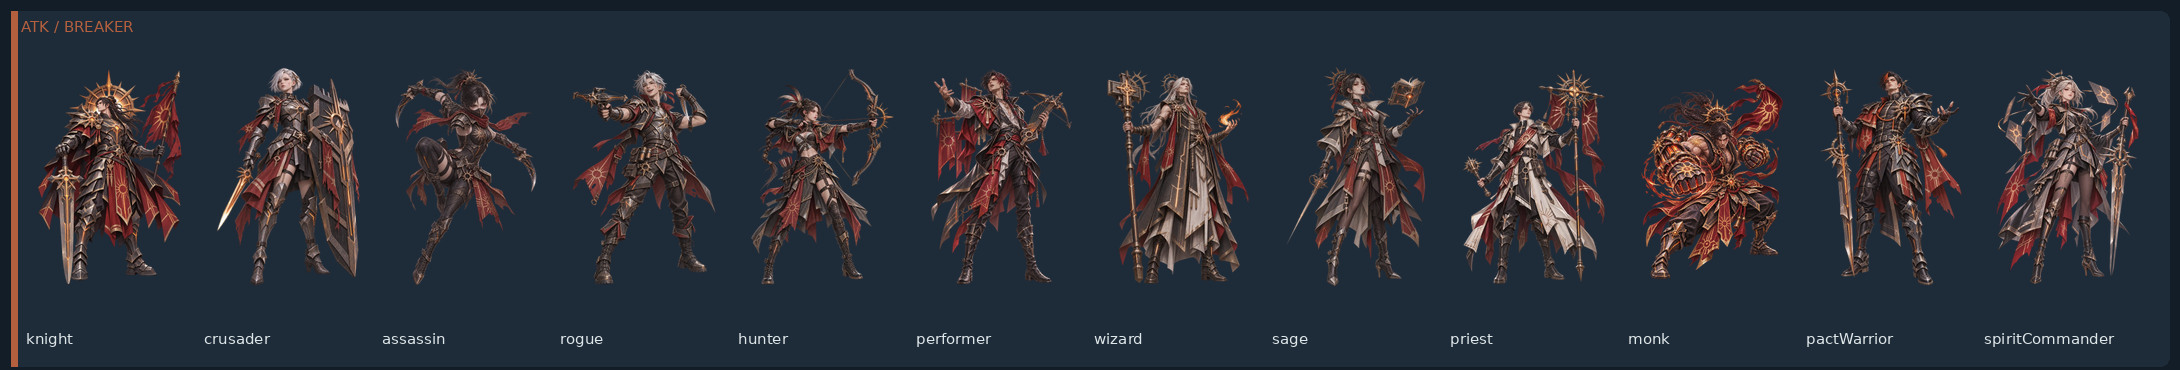
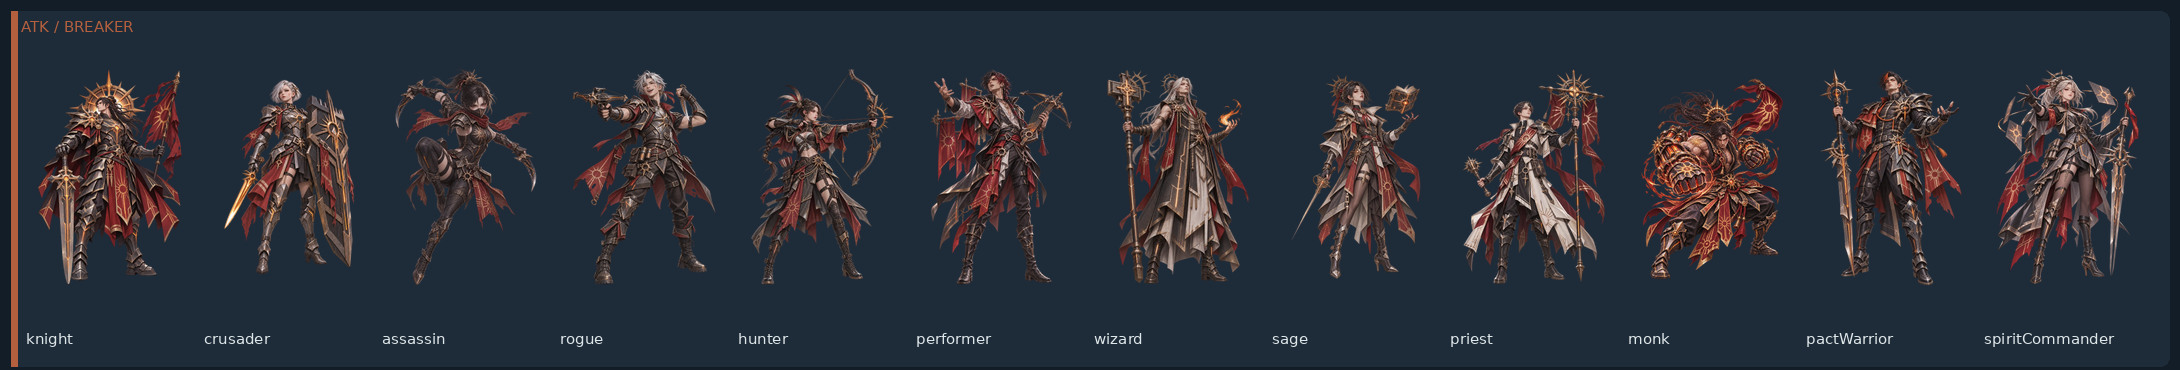
docs: regenerate all mantle V2 previews after strict margin pass

Changed region(s): [[0.0936, 0.1784, 0.1872, 0.773], [0.5927, 0.1784, 0.655, 0.773]]

diff --git a/docs/HANDOFF_EXTREME_MANTLES_V2_2026-11-08.md b/docs/HANDOFF_EXTREME_MANTLES_V2_2026-11-08.md
@@ -673,3 +673,9 @@
 - 保留黑色不對稱側削髮與長辮男性修羅、翠綠雙拳甲、裸露雙臂、綠白胸甲、白色寬鬆武鬥褲、翠色軍旗及發光菱形符紋；稍微收整全圖，拳勢與裝備完整，不增加手持武器。
 - `clear-monk.webp` 1024×1536 RGBA 透明 WebP；alpha≥128 bbox=(201,138,839,1395)，四邊留白201／138／185／141px，全部達6%，主體高度81.8%。
 - 最後九張 D1–D9 全部各自驗證；`python scripts/art/audit-extreme-mantle-alpha.py --strict` 完整稽核 **48張、0 REVIEW**，四側全部≥6%；`node --test tests/extreme-*.test.mjs` **36／36通過**。下一步重新產生五張總覽並確認遠端 Git blob 完全一致。
+
+## 最終總覽與規格驗收（2026-11-09）
+
+- 已由目前全部48張透明 WebP 重新生成 `docs/assets/extreme-mantles-v2-contact-sheet.jpg` 及 ATK／MATK／HP／CLEAR 四張獨立12圖總覽。48張總覽使用81品質縮幅 JPG，避免早期預覽下半部異常；已人工查看總覽完整顯示四排各12張。
+- 全圖尺寸1024×1536、RGBA、WebP、48個不同SHA-256及 alpha≥128 四側6%安全留白全部通過：`python scripts/art/audit-extreme-mantle-alpha.py --strict` 為48張、0 REVIEW。`node --test tests/extreme-*.test.mjs` 為36／36通過。
+- 每張返工素材D1–D9都有獨立測試、提交及推送記錄；這次只提交總覽及此交接文件，遠端確認後即可由新對話從此版接續美術主觀驗收。`main` 及正式網站均不變更。
